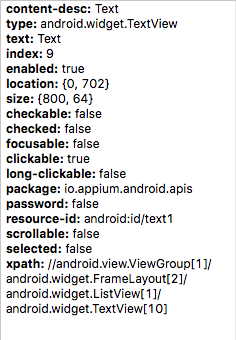
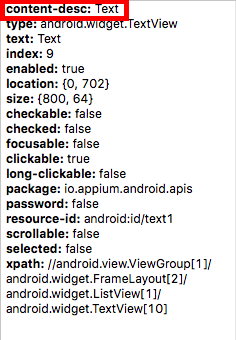
one new image to show accessibility id in android, and fine tuning instructor notes

Changed region(s): [[0.0, 0.0, 0.5636, 0.0882], [0.3559, 0.3235, 0.3856, 0.3529]]

diff --git a/appium101.html b/appium101.html
@@ -67,7 +67,7 @@
               </section>
 
               <section>
-					<h3>Trainer Introduction</h3>
+		<h3>Trainer Introduction</h3>
 <!-- left column-->
                     <div style="float:left;width:50%;" class="centered">
                       <p>
@@ -81,8 +81,8 @@
                     <div style="float:right;width:40%;padding-right:0px;">
                       <img src="assets/images/starfish.png" style="border:0;background:none; left:0; top:0;">
                     </div>
-				</section>
-
+	      </section>
+	      
               <section>
                 <h3>Course Administration</h3>
                 <ul>
@@ -353,7 +353,7 @@
                  </ul>
                  <aside class="notes">
                    <p>Appium's architecture was developed with the 4 four pillars in mind.</p>
-                   <p>The first one, about not having to recompile, is satisfied through the usage of the Android UIAutomator and the iOS UIAutomation frameworks, by Google and Apple, respectively. Instead of creating Appium specific code, or using an Appium specific framework that would the have to be compiled into the app, Appium was built as a wrapper around these technologies. This means that it uses the tech that's already there, and it also means that you are testing the app that will be shipped - no need to adjust the actual app code.</p>
+                   <p>The first pillar, about not having to recompile, is satisfied through Appium's usage of the Android UIAutomator and the iOS UIAutomation frameworks, by Google and Apple, respectively. Instead of creating Appium specific code, or using an Appium specific framework that would the have to be compiled into the app, Appium was built as a wrapper around these technologies. This means that it uses the tech that's already there, and it also means that you are testing the app that will be shipped - no need to adjust the actual app code.</p>
                    <p>In order to actually use the vendor automation frameworks, the Selenium Webdriver wraps them both in one API, which is then wrapped by the Appium client libraries. So the vendor automation frameworks provide the ability to carry out the automated interactions, and the Selenium WebDriver provides the communication architecture.</p>
                    <p>This is what gives Appium it's client/server architecture.</p>
                    <p>The appium client is simply a library that you can use to write Appium test scripts in your favorite language. These client libraries are extensions of the Selenium WebDriver client, so they should have all the same functionalities, as well as syntax.</p>
@@ -375,7 +375,7 @@
                     </small>
                   </p>
                   <aside class="notes">
-                    <p></p>
+                    <p>Appium interacts with Android devices by using the UI Automator framework that was developed by Google to run it's own automation tasks on devices. Appium enables you to run tests in whatever language you want, not just the java of the framework. It also allows you to run your tests on remote devices/emulators. We can also use the UI Automator syntax directly in ur appium scripts to locate elements.</p>
                   </aside>
                 </section>
 
@@ -389,7 +389,7 @@
                     <small>Documentation: <a href="https://developer.apple.com/library/tvos/documentation/DeveloperTools/Conceptual/InstrumentsUserGuide/UIAutomation.html" target="_blank">iOS UI Automation</a></small>
                   </p>
                   <aside class="notes">
-                    <p></p>
+                    <p>The UI Automation tool was written by Apple to interact with iOS applications. Testing scripts written using the UI Automation tool proper use JavaScript, which then calls the UI Automation API to simulate interaction. Appium wraps itself around this API, converting your own Appium test scripts into JavaScripts that the UI Automation tool uses to interact with the application.We can also use the UI Automation syntax directly in our Appium scripts to locate elements.</p>
                   </aside>
                 </section>
 
@@ -419,7 +419,7 @@
                     </p>
                   </div>
                   <aside class="notes">
-                    <p>On a windows operating system, you're only going to be able to test android applications. iOS mobile development requires some technology that only runs on mac. However, this won't prevent you running tests on iOS, remotely at least. Finding out what you're actually trying to test can be tricky if you can't see what youre look at though!</p>
+                    <p>On a windows operating system, you're only going to be able to test android applications. iOS mobile development requires some technology that only runs on mac.</p>
                     <p>So we need a lot of technology here! We should be able to find all of these programs, frameworks and libraries on our environment, either as its own program, or bundled in with Eclipse.</p>
                     <p>You should also install git if you are planning on having version control for your script code. Another program you can install is cURL, if you are planning on using Sauce storage to host your application to test on sauce labs.</p>
                     <p>If you'd like to see the exact set-up steps, you can look in the documentation. This whole set-up should be done already for you in today's lab environment.</p>
@@ -439,9 +439,10 @@
                    <small>Documentation: <a href="http://appium.io/slate/en/master/?java#running-appium-on-mac-os-x" target="_blank">Running Appium on Mac OS X</a></small>
                  </p>
                  <aside class="notes">
-                   <p>If you use a Mac OS regularly, then you can do android and iOS testing locally. The android set will be pretty much the same, just with some tweaks to fit in with standard mac program installations.</p>
-                   <p>But testing you iOS app on mac requires the XCode tools, the iOS SDKs, and you need to authorize you computer to run the iOS simulator.</p>
-                    <p>Recommend Mac OS X 10.10</p>
+                   <p>If you use a Mac OS regularly, then you can do both android and iOS testing locally. The android set will be pretty much the same, just with some tweaks to fit in with standard mac program installations.</p>
+                   <p>But testing your iOS app on mac requires the XCode tools, the iOS SDKs, and you need to authorize your computer to run the iOS simulator.</p>
+                   <p>Recommend Mac OS X 10.10</p>
+		   <p><mark>Only talk about the auth if asked.</mark></p>
                     <p>Authorize: You need to authorize use of the iOS Simulator by running the authorize-ios binary made available through npm. If you installed globally, by running npm install -g appium, use
                       <pre style="display:inline;">sudo authorize-ios</pre>
                       If you installed locally, the binary will be installed within the node_modules/.bin directory, so use <pre style="display:inline;">sudo node_modules/.bin/authorize-ios</pre>
@@ -460,7 +461,7 @@
                   </ul>
 
                   <aside class="notes">
-                    <p>With regards to mobile applications, there are three different types that require different kinds of test setups.</p>
+                    <p>There are three different types of mobile applicaitons that require different kinds of test setups.</p>
                     <p>Mobile Web browser - these types of tests simply pull up your application on a mobile browser, like mobile chrome, FF, safari.</p>
                     <p>Native app - native app testing goes into the application itself, and works with the native or inherent application elements, rather than using a browser or webview to access your application site.</p>
                     <p>Hybrid app - Native app that has a bar on the top, bottom, and then pulls up/uses a webview. </p>
@@ -469,7 +470,7 @@
                 </section>
 
                 <section>
-				  <h3>How Appium Works</h3>
+		  <h3>How Appium Works</h3>
                   <p>
                     <ol>
                       <li>Write script</li>
@@ -480,7 +481,7 @@
                     </ol>
                   </p>
                   <aside class="notes">
-                    <p>So we went over how appium works on high level, but let's get down to some specifics.</p>
+                    <p>So we went over how appium works on high level, but let's cover the process.</p>
                     <p>First, we need to actually write our test script. When we go to run it, the Appium Client library that we used to will connect and send the commands to the local or remote appium server. Our script and the commands we write in it all talk to the REST API on the Appium server, via HTTP requests.</p>
                     <p>The appium server then sends those commands to the device, and then collects and sends the results back via and HTTP response.</p>
                     <p>Our script then takes those results, and it's up to us to pass those results onto Sauce Labs, or deal with them locally.</p>
@@ -514,7 +515,7 @@
 				  </section>
 
                   <section>
-				    <h3>1. Set the Desired Capabilities</h3>
+		    <h3>1. Set the Desired Capabilities</h3>
 
                     <p>Web Browser</p>
                     <pre><code class="java" data-trim contenteditable>
@@ -533,11 +534,11 @@ capabilities.setCapability("app", "https://github.com/appium/app.apk");
 
                     <aside class="notes">
                       <p>For those of you who may have done local Selenium testing, some of these Desired Capabilities may look unfamiliar. One key difference between selenium and Appium is that Appium requires an Appium webserver, even for local tests. We need to set these desired capabilties so the client can tell the server what settings we want to test with.</p>
-                      <p>The desired capabilities that we have here are all that are required for local Appium tests. When we run an Appium test using Sauce Labs, we will need to add additional capabilties, butwe'll go over that in a couple modules.</p>
+                      <p>The desired capabilities that we have here are all that are required for local Appium tests. When we run an Appium test using Sauce Labs, we will need to add additional capabilties, but we'll go over that in a couple modules.</p>
                       <p>In our case, we are going to be testing on the Android Emulator. We will also load up our app from github onto that device and run our test on it.</p>
                       <p>There are quite a few desired capabilities we can set, and we'll take a look at some of them more in depth later. A key capability I want to point out here though is the "app" capability. You'll notice it goes to github.com to grab the app. We can set this to many different locations, and when doing local tests, it can point to somewhere in your filesystem as well. Sauce Labs also has their own application storage solution that can be used when running appium tests.</p>
                     </aside>
-				  </section>
+		  </section>
 
                   <section>
                     <h3>2. Start an Appium Session</h3>
@@ -549,7 +550,7 @@ capabilities.setCapability("app", "https://github.com/appium/app.apk");
                       </code></pre>
                       <p>iOS</p>
                       <pre><code class="java" data-trim contenteditable>
-                          IOSDriver&#60;MobileElement&#62; driver = new IOSDriver&#60;MobileElement&#62;(
+                          sIOSDriver&#60;MobileElement&#62; driver = new IOSDriver&#60;MobileElement&#62;(
     new URL("http://localhost:4723/wd/hub"),
     capabilities);
                       </code></pre>
@@ -617,8 +618,9 @@ android.widget.TextView[10]"/&#62;
                     </div>
 
                     <aside class="notes">
-                      <p>You can see how the XML correlates with each line in the GUI element viewer.</p>
-                      <p>In the Appium GUI, you can serach through the elements in a convenient interface (as seen on the left), at each point of your applciation element infrastructure. If you aren't planning on using the Appium GUI, you can use a command, similar to println debugging to get the structure of elements in your app. And that is the driver.getPageSource() directive.</p>
+		      <p>For those of you who have used selenium, or do web developement, you're probably familiar with the inspector for browser, and how you can find and identify html objects or other web elements by inspecting the page. But what is the equivalent for inspecting and application? The answer is pretty much just: XML. Now, the xml can be showen through the Appium GUI, if you can get that working. But you can always print out the pagesource as well. This will give you the hierarchy of the xml, and pretty much what the app knows exists on the current view.</p>
+		      <p>In the white on the right, te XML gets rendered and parsed for you into a nice screen. On the left, I have a section of formatted output from the getpagesource() function, which we will take a look at using later.</p>
+		      <p>You can see how the XML correlates with each line in the GUI element viewer.</p>
                     </aside>
                   </section>
 
@@ -626,7 +628,7 @@ android.widget.TextView[10]"/&#62;
                     <h3>Identify an Element</h3>
                     <pre style="width:94%;">
                         <code class="java" data-trim contenteditable>
-                          textBox = driver.findElement(By.id("com.saucelabs.guineapig:id/fbemail"));
+                          WebElement graphic_btn = driver.findElementByAccessibilityId("Graphics");
                         </code>
                     </pre>
                     <p>Identifiers:</p>
@@ -672,8 +674,8 @@ android.widget.TextView[10]"/&#62;
                     <aside class="notes">
                       <p>Instead, we can use the OS specific Identifiers.</p>
                       <p>The automation classes provide a way to collect or search for particular elements through the UI class.</p>
-                      <p>Appium exposes two methods of using the underlying device automation technology directly, in order to find elements. This is especially useful when a test needs some fine-grained control over finding elements. These are the android automator and ios automation frameworks.</p>
-                      <p>For iOS mobile testing that uses the ios automation framework, the Appium server converts the WebDriver commands from your test script into the UIAutomation JavaScript commands that can be understood by Apple Instruments. These commands are then sent to your iOS mobile application and execute those commands against the application in the simulator or device.</p>
+                      <p>We talked about the UI Automation and UI Automator frameworks a little earlier, and how we can identify elements using them. This is especially useful when a test needs some fine-grained control over finding elements.</p>
+                      <p>For iOS mobile testing, the Appium server converts the WebDriver commands from your test script into the UIAutomation JavaScript commands that can be understood by Apple Instruments. These commands are then sent to your iOS mobile application and execute those commands against the application in the simulator or device.</p>
                     <p>For Android Appium tests that use the android automator framework, require the Appium Server to convert the test script commands into UIAutomator Java commands, parse the data when testing it against your mobile emulator of your choice, then convert the response back, and relay the data to the appium script</p>
                       <p>content-description: <pre style="display:inline;">android:contentDescription=”@string/pause”/></pre></p>
                       <p>For both platforms getting an element, or multiple elements, by their accessibility id is usually the best method.</p>
@@ -682,14 +684,13 @@ android.widget.TextView[10]"/&#62;
                   </section>
 
                   <section>
-				    <h3>4. Perform an Action on an Application Element</h3>
+		    <h3>4. Perform an Action on an Application Element</h3>
 
-                    <pre>
+                    <pre style="width:92%">
                       <code class="java" data-trim contenteditable>
-                        newGameBtn = driver.findElement(By.
-    id("com.google.android.divideandconquer:id/newGameBtn"));
-touch.tap(newGameBtn).perform();
-                      </code>
+                        WebElement graphic_btn = driver.findElementByAccessibilityId("Graphics");
+driver.tap(1,graphic_btn,750);
+		      </code>
                     </pre>
                     <aside class="notes">
                       <p>In our example, we frist locate the element, in this case by ID, and then perform a tap on that element. If you don't give the tap command a set of coordinates, it will tap the center of the element by default.</p>
@@ -761,7 +762,7 @@ touch.tap(newGameBtn).perform();
                   <section data-state="lab">
                     <h3>Lab 1: Set-up</h3>
                     <ol>
-                      <li>Double-click the Android_virtual_device.bat file on the desktop to start the AVD.</li>
+                      <li>Double-click the <p style="color:rgb(87,193,232); display:inline;">Android_virtual_device.bat</p> file on the desktop to start the AVD.</li>
                       <li>Double-click the Appium desktop icon.</li>
                       <li>After the device loads, press the play button on the Appium GUI.</li>
                       <li>Open Eclipse from the desktop shortcut.</li>
@@ -808,7 +809,7 @@ touch.tap(newGameBtn).perform();
     By.id("com.google.android.divideandconquer:id/newGame"));
                     </code></pre>
                     <aside class="notes">
-                      <p>We took a look at locating elements briefly in the pervious module, and now we have some examples on using each of the different locator types.</p>
+                      <p>We took a look at locating elements briefly in the previous module, and now we have some examples on using each of the different locator types.</p>
                       <p>Generally, our locator expressions are made in Key:Value pairs. In our example here, the key would be the id, specifically, the resource id, which is then followed by the resource id value in parentheses.</p>
                     </aside>
                   </section>
@@ -821,9 +822,12 @@ touch.tap(newGameBtn).perform();
                     </code></pre>
                     <p>Acessibility id</p>
                     <pre><code class="java" data-trim contenteditable>
-                        newGameBtn = driver.findElementByAccessibilityId("New Game");
+                        textBox = driver.findElementByAccessibilityId("Text");
                     </code></pre>
-                    <aside class="notes">
+		    <div style="text-align:center;">
+		    <img src="assets/images/app_elems_contentdesc.png" style="border:0; text-align:center; background:none;">
+		    </div>
+		    <aside class="notes">
                       <p>Android has an automation framework called UI Automator. We can identify elements by their UI Automator framework class names.</p>
                       <p>In the mobile environment, ids are not, as in WebDriver, CSS ids, but rather a kind of native identifier. For Android, the accessbility id is one of the easiest ways to identify an element. findElementByAccessibilityId() maps to the "content-desc" value of an android element.</p>
                     </aside>
@@ -846,9 +850,9 @@ UiObject cancelButton = device
                     <ul>
                       <li>Appium script</li>
                     </ul>
-                    <pre style="width:95%"><code class="java" data-trim contenteditable>
+                    <pre style="width:99%"><code class="java" data-trim contenteditable>
                         WebElement cancelButton = driver.findElementsByAndroidUIAutomator(
-     "new UiSelector().text("Cancel").className("android.widget.Button")");
+     "new UiSelector().text(\"Cancel\").className(\"android.widget.Button\")");
                     </code></pre>
 
                     <aside class="notes">
@@ -983,7 +987,7 @@ touch.tap(btnElem).perform();
                       <p>So first, we have a press(), which places a "finger" on the screen. In this particular case, we are giving it specific coordinates to press. But we could also pass it a webelement. Typically, we see these followed by a release(), which will withdraw the touch. I've inclduded the formal definition here, and it's important to note that you can use the element, and coordinates, or just coordinates or just an element. They can be used seperately. This will be true of the actions below this one as well.</p>
                       <p>The moveTo() works differently depending on what arguments it has. If it has just coordinates, then it will move the touch to a new position relative to the current position. So if we moved starting from (10,200), and did a moveTo(1,1), we would end up where?</p>
                       <p>Let them answer.</p>
-                      <p>Good! If moveTois just given an element, it will move the current touch to the center of the given element. And lastly if it has an element and coordinates, then it will move to that element, but the coordinate reference is set from the top left corner.</p>
+                      <p>Good! If moveTo is just given an element, it will move the current touch to the center of the given element. And lastly if it has an element and coordinates, then it will move to that element, but the coordinate reference is set from the top left corner.</p>
                       <p>Another action we have is tap, which is pretty straightforward. It's essentially a combination of a press() and a release(), just a quick tap on your screen.</p>
                     </aside>
                   </section>
@@ -1030,7 +1034,7 @@ action.longPress(ele1).moveTo(x1,580).release().perform();
                     <aside class="notes">
                       <p>And lastly for actions, we have Multitouches.</p>
                       <p>Multitouches require the MultiTouchAction class. The MultiTouchAction class takes in different touchaction objects, and then performs their actions.</p>
-                      <p>You can see that multitouches work very similarly to touchactions, as multitouches are made up of touchaction objects! But you can see the same chaining we used before is also implemented here.</p>
+                      <p>You can see that multitouches work very similarly to touchactions, as multitouches are made up of touchaction objects! We can also see the same chaining we used before is also implemented here.</p>
                     </aside>
                   </section>
                 </section>
@@ -1147,6 +1151,7 @@ eye2.press(250, 200).release().perform();
                     <p>Show where they could find the id "title" that they can use to identify the view screen that needs to load before they do the touch actions.</p>
                     <p></p>
                     <pre><code class="java" data-trim contenteditable>
+			WebDriverWait wait = new WebDriverWait(driver, 10);
                         wait.until(ExpectedConditions.visibilityOf(driver.findElementById("title")));
                     </code></pre>
                   </aside>
@@ -1156,7 +1161,6 @@ eye2.press(250, 200).release().perform();
 <!-- Running an Appium Script with Sauce Labs Module-->
                 <section data-background="rgb(226, 35, 26)">
                   <h2>Appium Testing with Sauce Labs</h2>
-                  <aside class="notes"> Finally, we run the script on Sauce Labs, and compare the methods and discuss the benefits of running on Sauce Labs</aside>
                 </section>
 
                 <section>
@@ -1177,7 +1181,7 @@ eye2.press(250, 200).release().perform();
                   </ul>
 
                   <aside class="notes">
-                    <p>Technically, all Appium scripts call out to a server. So you can think of them as all being remote, even if you are hosting the server on your own local machine. But if your script is going to talk to Sauce Labs, then it needs a couple of other additional items to be setup. First, we'll need to edit the "app" desired cap to point to where the application is hosted. Second, we'll need to authenticate with Sauce Labs. And lastly, we'll need to set additional desired capabilities, which defines what device and OS combination we will use, as well as the version of the OS and appium itself.</p>
+                    <p>All Appium scripts call out to an Appium server. So you can think of them as all being remote, even if you are hosting the server on your own local machine. But if your script is going to talk to Sauce Labs, then it needs a couple of other additional items to be setup. First, we'll need to edit the "app" desired cap to point to where the application is hosted. Second, we'll need to authenticate with Sauce Labs. And lastly, we'll need to set additional desired capabilities, which defines what device and OS combination we will use, as well as the version of the OS and appium itself.</p>
                   </aside>
                 </section>
 
@@ -1328,7 +1332,7 @@ https://saucelabs.com/rest/v1/storage/&#60;sauce_username&#62;/&#60;upload_filen
                     <li>Copy and paste the missing required lines into your script.</li>
                   </ol>
                   <aside class="notes">
-                    <p></p>
+                    <p>Should only be missing capabilties.setCapability("browserName",""); and capabilties.setCapability("appiumVersion","1.4.16");</p>
                   </aside>
                 </section>
 
@@ -1566,8 +1570,9 @@ public void the_feeling_is(String arg1) throws Throwable {
                         <li>assertTrue</li>
                         <li>assertEqualsNoOrder</li>
                       </ul>
-                    </div>
-                    <aside class="notes">
+		    </div>
+		    <p style="text-align:center;"><small><a href="http://testng.org/javadocs/org/testng/Assert.html" target="_blank">Documentation: Assert Class details</a></small></p>
+		    <aside class="notes">
                       <p>There are a lot of different kinds of assertion checks that you can make. All asserts will cause a test to fail, if the check or comparison returns false. Assert equals will compare two object's values. assertNull will assert the value of an object is null. assertSame will assert two objects are the same object. and so on.</p>
                       <p>You find the full information on using asserts (with the testNG java framework) here: <a href="http://testng.org/javadocs/org/testng/Assert.html" target="_blank">assertion class details</a></p>
                     </aside>
@@ -1887,6 +1892,9 @@ public void enterCommentText(String text){
                        <li>Look at the test output, Appium logs, logcat, Android or iOS logs</li>
                        <li>Use the pageGetSource() command to see struture of app at that moment of error</li>
                      </ul>
+		     <aside class="notes">
+		       <p>Inevitably, when we are writing and running scripts, and working with a new tech in general, we will need to debug some kind of error. These are a couple things you should consider, in order to determine where the fault actually is. </p>
+		     </aside>
                    </section>
 
                    <section>
